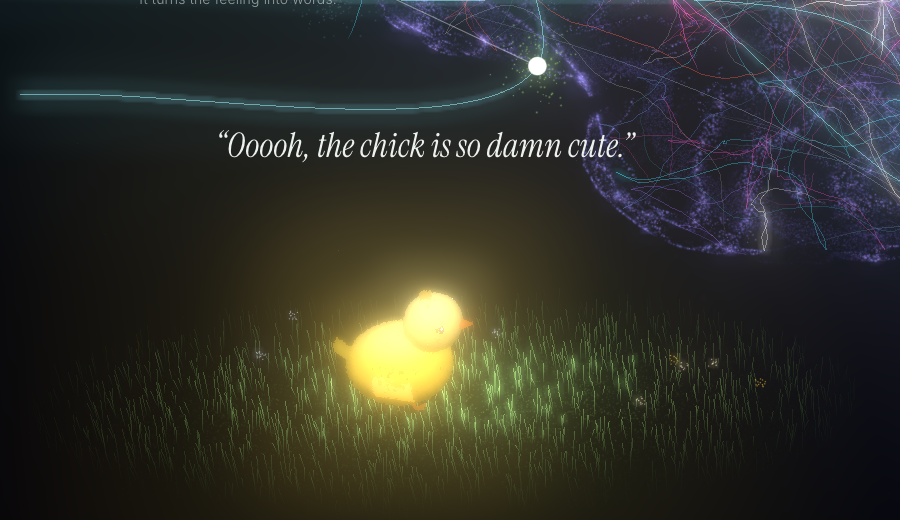
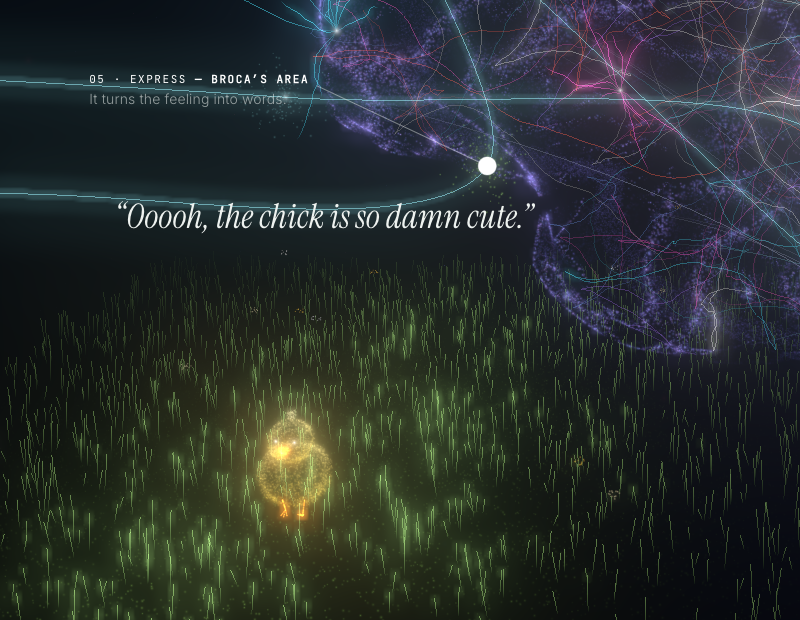
Chick: particle style, front view at eye level, walks toward you
Text appears first; the chick fades in after. The chick is now a loose
glowing particle cloud (like the brain), seen from the front at eye
level, walking out of the receding grass toward the viewer with the
scroll. Smaller, and the line no longer jumps when the chick appears.

diff --git a/index.html b/index.html
@@ -1016,70 +1016,52 @@ addEventListener('pointerdown',e=>{if(e.target.closest&&e.target.closest('button
   if(ACTIVE==='become'&&GARDEN)growAt(e.clientX,e.clientY);
   else if(['reveal','bond','future'].includes(ACTIVE)){const i=trapAt(e.clientX,e.clientY);if(i>=0)TRAPST[i].hold=performance.now()+1600}});
 
-// ======================= THE CHICK: a particle chick walking (with the scroll) across a small patch of ground =======================
+// ======================= THE CHICK: a particle chick walking toward you (with the scroll) out of the depth =======================
 let CHICK=null;
 function buildChick(){
   const root=new THREE.Group();brainScene.add(root);
   const walker=new THREE.Group();root.add(walker);
   const body=new THREE.Group(),legL=new THREE.Group(),legR=new THREE.Group();walker.add(body,legL,legR);
-  const LIGHT=V(.3,1,.6).normalize();
-  const solid=()=>{const S=[],SC=[],SS=[];return {S,SC,SS,add(p,c,s){S.push(p.x,p.y,p.z);SC.push(c.r,c.g,c.b);SS.push(s)},
-    build(){const g=new THREE.BufferGeometry();g.setAttribute('position',new THREE.Float32BufferAttribute(S,3));g.setAttribute('col',new THREE.Float32BufferAttribute(SC,3));g.setAttribute('size',new THREE.Float32BufferAttribute(SS,1));const p=new THREE.Points(g,opaqueMat());p.frustumCulled=false;return p}}};
-  const shade=(n,c,amb=.3)=>c.clone().multiplyScalar((amb+(1-amb)*Math.max(0,n.dot(LIGHT)))*.42);
-  const B=solid();rs(1201);
-  // fluffy egg-shaped body
-  const BC=V(0,.07,0);
-  for(let i=0;i<9000;i++){const n=V(R()-.5,R()-.5,R()-.5).normalize();const fl=1+.09*Math.pow(R(),2);let p=V(n.x*.068*(n.x<0?1.12:1),n.y*.058,n.z*.056).multiplyScalar(fl).add(BC);
-    const top=(n.y+1)/2;const c=C('#e8a91c').lerp(C('#ffd84a'),Math.min(1,top*1.4)).lerp(C('#fff2b0'),Math.max(0,top-.75)*2);B.add(p,shade(n,c),1.3+R()*.9)}
-  // tail tuft
-  for(let i=0;i<500;i++){const t=R();const p=V(-.075-t*.022,.085+t*.02+(R()-.5)*.012,(R()-.5)*.02);B.add(p,shade(V(-1,.5,0).normalize(),C('#ffd84a')),1.2)}
-  // wing: a slightly darker, raised feather patch on each side
-  for(const sd of [-1,1])for(let i=0;i<900;i++){const u=R(),v=R();const p=V(-.03+u*.055,.05+v*.035-u*.012,sd*(.054+.006*Math.sin(v*Math.PI)));const c=C('#f0b82c').lerp(C('#ffe27a'),v);B.add(p,shade(V(0,.4,sd).normalize(),c),1.2)}
-  // head
-  const HC=V(.055,.142,0);
-  for(let i=0;i<5200;i++){const n=V(R()-.5,R()-.5,R()-.5).normalize();const p=n.clone().multiplyScalar(.04*(1+.06*Math.pow(R(),2))).add(HC);const top=(n.y+1)/2;
-    B.add(p,shade(n,C('#f2c034').lerp(C('#fff0a0'),top)),1.2+R()*.7)}
-  // head fuzz
-  for(let i=0;i<160;i++){const t=R();const a=(R()-.5)*.8;B.add(V(HC.x-.005+a*.02,HC.y+.04+t*.014,(R()-.5)*.01),C('#8a7230'),1)}
-  // beak
-  for(let i=0;i<500;i++){const t=R(),a=R()*6.28,r=.011*(1-t);B.add(V(HC.x+.036+t*.022,HC.y-.004+Math.sin(a)*r*.7,Math.cos(a)*r),shade(V(1,.3,0).normalize(),C('#ff8a1e')),1.1)}
-  // eyes with a highlight
-  for(const sd of [-1,1]){for(let i=0;i<160;i++){const q=V(R()-.5,R()-.5,R()-.5).normalize().multiplyScalar(.0085*Math.sqrt(R()));B.add(V(HC.x+.02,HC.y+.01,sd*.037).add(q),C('#000000'),1.4)}
-    B.add(V(HC.x+.023,HC.y+.014,sd*.038),C('#bbbbbb'),1.6);for(let i=0;i<40;i++)B.add(V(HC.x+.012+(R()-.5)*.01,HC.y-.008+(R()-.5)*.006,sd*.037),C('#8a5a3a'),1.1)}
-  body.add(B.build());
-  // legs (pivot at the hip), with three toes
-  for(const [leg,z] of [[legL,.018],[legR,-.018]]){leg.position.set(.005,.03,z);const L=solid();
-    for(let i=0;i<260;i++){const t=R();L.add(V((R()-.5)*.003,-t*.03,(R()-.5)*.003),C('#7a4410'),1)}
-    for(const a of [-.6,0,.6])for(let i=0;i<70;i++){const t=R();L.add(V(Math.cos(a)*t*.016,-.03,Math.sin(a)*t*.012),C('#7a4410'),1)}
-    leg.add(L.build())}
-  // a small patch of ground with depth: moss, short grass, a few tiny flowers, lit under the chick
-  const G=new Cloud(),GL=new Lines();rs(1202);
-  for(let i=0;i<14000;i++){const r=Math.sqrt(R()),a=R()*6.28;const x=Math.cos(a)*r*.55,z=Math.sin(a)*r*.26;const edge=Math.pow(1-r,.6);const lit=Math.exp(-((x)*(x)/.12+z*z/.03));
-    G.add(x,(R()-.5)*.006,z,C('#16301a').lerp(C('#8fbf5a'),.3+lit*.6),1.4+R(),(.12+.5*lit)*edge*(.5+R()*.5))}
-  for(let i=0;i<1600;i++){const r=Math.sqrt(R()),a=R()*6.28;const x=Math.cos(a)*r*.5,z=Math.sin(a)*r*.22;const lit=Math.exp(-(x*x/.08+z*z/.02));const h=.012+R()*.03;
-    GL.seg(V(x,0,z),V(x+(R()-.5)*.01,h,z),C('#0c200e').multiplyScalar(.1),C('#b6f08a').multiplyScalar((.08+.5*lit)*(1-r)))}
-  for(let k=0;k<9;k++){const a=R()*6.28,r=.25+R()*.2;const x=Math.cos(a)*r,z=Math.sin(a)*r*.4;const col=C(['#fff2c0','#ffd24a','#ffffff'][k%3]);for(let i=0;i<14;i++)G.add(x+(R()-.5)*.012,.03+R()*.008,z+(R()-.5)*.012,col,1.6,.6)}
+  const Y=C('#ffd84a'),P=C('#fff2b0'),O=C('#ff9a2e');
+  const B=new Cloud();rs(1301);
+  // loose glowing silhouette, facing +z (toward the viewer)
+  const BC=V(0,.07,0);for(let i=0;i<1800;i++){const n=V(R()-.5,R()-.5,R()-.5).normalize();const fl=.92+.16*R();const p=V(n.x*.06,n.y*.055,n.z*.064*(n.z<0?1.1:1)).multiplyScalar(fl).add(BC);B.add(p.x,p.y,p.z,Y.clone().lerp(P,(n.y+1)/2*.6),1.3+R()*1.1,.22+R()*.2)}
+  const HC=V(0,.14,.03);for(let i=0;i<1100;i++){const n=V(R()-.5,R()-.5,R()-.5).normalize();const p=n.clone().multiplyScalar(.038*(.94+.12*R())).add(HC);B.add(p.x,p.y,p.z,Y.clone().lerp(P,(n.y+1)/2*.7),1.2+R()*1,.22+R()*.2)}
+  for(let i=0;i<60;i++)B.add(HC.x+(R()-.5)*.014,HC.y+.04+R()*.014,HC.z+(R()-.5)*.01,P,1.4,.5);
+  for(let i=0;i<120;i++){const t=R(),a=R()*6.28,r=.01*(1-t);B.add(HC.x+Math.cos(a)*r,HC.y-.006+Math.sin(a)*r*.7,HC.z+.036+t*.018,O,1.8,.8)}
+  for(const sd of [-1,1]){B.add(HC.x+sd*.016,HC.y+.008,HC.z+.034,C('#ffffff'),3.2,.9)}   // eyes: two bright pinpoints
+  for(const sd of [-1,1])for(let i=0;i<220;i++){const u=R(),v=R();B.add(sd*(.058+.004*Math.sin(v*Math.PI)),.05+v*.035,-.02+u*.05,Y.clone().multiplyScalar(.85),1.2,.15)}
+  body.add(B.build(0,40));
+  for(const [leg,x] of [[legL,.02],[legR,-.02]]){leg.position.set(x,.03,0);const L=new Cloud();
+    for(let i=0;i<60;i++){const t=R();L.add(0,-t*.03,0,O,1.4,.7)}
+    for(const a of [-.5,0,.5])for(let i=0;i<20;i++){const t=R();L.add(Math.sin(a)*t*.012,-.03,Math.cos(a)*t*.016,O,1.3,.7)}
+    leg.add(L.build(0,40))}
+  // ground that runs back into the distance: moss and grass, lit around the chick's path
+  const G=new Cloud(),GL=new Lines();rs(1302);
+  for(let i=0;i<16000;i++){const x=(R()-.5)*1.1,z=.25-Math.pow(R(),.8)*1.5;const side=Math.exp(-x*x/.09);const far=Math.max(0,Math.min(1,(-z+.1)/1.4));
+    G.add(x,(R()-.5)*.006,z,C('#16301a').lerp(C('#8fbf5a'),.25+.6*side*(1-far*.6)),1.3+R(),(.1+.45*side)*(1-far)*(.5+R()*.5))}
+  for(let i=0;i<2200;i++){const x=(R()-.5)*1.1,z=.25-Math.pow(R(),.8)*1.5;const side=Math.exp(-x*x/.09);const far=Math.max(0,Math.min(1,(-z+.1)/1.4));const h=.01+R()*.03;
+    GL.seg(V(x,0,z),V(x+(R()-.5)*.01,h,z),C('#0c200e').multiplyScalar(.1),C('#b6f08a').multiplyScalar((.08+.4*side)*(1-far)))}
+  for(let k=0;k<12;k++){const x=(R()<.5?-1:1)*(.15+R()*.3),z=.1-R()*1.8;const col=C(['#fff2c0','#ffd24a','#ffffff'][k%3]);for(let i=0;i<12;i++)G.add(x+(R()-.5)*.012,.03+R()*.008,z+(R()-.5)*.012,col,1.5,.5)}
   const gp=G.build(0,40),gl=GL.build();gp.frustumCulled=gl.frustumCulled=false;root.add(gp,gl);
-  CHICK={root,walker,body,legL,legR,parts:[gp,gl]};setOp(root,0);
+  CHICK={root,walker,body,legL,legR};setOp(root,0);
 }
 const chickQ=document.getElementById('chickq');
 function chickFrame(A,P,t){
-  if(!CHICK)return;const pm=P.mind;const on=A==='mind'?ss(.85,.89,pm):0;
-  setOp(CHICK.root,on);CHICK.root.visible=on>.002;if(!CHICK.root.visible){return}
-  // place the little world to the lower left of the view, tipped so we look down onto the ground
+  if(!CHICK)return;const pm=P.mind;const on=A==='mind'?ss(.9,.93,pm):0;
+  setOp(CHICK.root,on);CHICK.root.visible=on>.002;if(A!=='mind')return;
+  // eye level: the patch sits low in the frame, the ground runs away from us
   const fwd=V(0,0,-1).applyQuaternion(cam.quaternion),right=V(1,0,0).applyQuaternion(cam.quaternion),up=V(0,1,0).applyQuaternion(cam.quaternion);
   const narrow=innerWidth/innerHeight<1;
-  CHICK.root.position.copy(cam.position).addScaledVector(fwd,2.1).addScaledVector(right,narrow?0:-.5).addScaledVector(up,-.42);
-  CHICK.root.quaternion.copy(cam.quaternion);CHICK.root.rotateX(.42);
-  // walk with the scroll: position, leg swing and body bob all come from scroll progress
-  const w=ss(.87,1,pm);const x=lerp(-.3,.26,w);CHICK.walker.scale.setScalar(.8);const ph=w*7*Math.PI*2;
-  CHICK.walker.position.set(x,0,0);
-  CHICK.legL.rotation.z=Math.sin(ph)*.55;CHICK.legR.rotation.z=-Math.sin(ph)*.55;
-  CHICK.body.position.y=Math.abs(Math.sin(ph))*.008;CHICK.body.rotation.x=Math.sin(ph)*.06;CHICK.body.rotation.z=Math.sin(ph*2)*.03+Math.sin(t*.003)*.01;
-  // the line sits just above the chick's patch
-  const [sx,sy]=projectEl(V(0,.32,0),CHICK.root);chickQ.style.left=(sx-chickQ.offsetWidth/2)+'px';chickQ.style.top=(sy-chickQ.offsetHeight)+'px';
+  CHICK.root.position.copy(cam.position).addScaledVector(fwd,1.6).addScaledVector(right,narrow?0:-.5).addScaledVector(up,-.36);
+  CHICK.root.quaternion.copy(cam.quaternion);CHICK.root.rotateX(.14);
+  // walk toward the viewer with the scroll
+  const w=ss(.91,1,pm);const z=lerp(-.95,-.05,w);const ph=w*6*Math.PI*2;
+  CHICK.walker.position.set(Math.sin(ph*.5)*.01,0,z);CHICK.walker.scale.setScalar(.55);
+  CHICK.legL.rotation.x=Math.sin(ph)*.6;CHICK.legR.rotation.x=-Math.sin(ph)*.6;
+  CHICK.body.position.y=Math.abs(Math.sin(ph))*.008;CHICK.body.rotation.z=Math.sin(ph)*.07;
+  const [sx,sy]=projectEl(V(0,.25,-.2),CHICK.root);chickQ.style.left=(sx-chickQ.offsetWidth/2)+'px';chickQ.style.top=(sy-chickQ.offsetHeight)+'px';
 }
-
 // camera keyframes
 const K={
   hero:{p:V(0,.1,7.5),l:V(0,0,0)},
